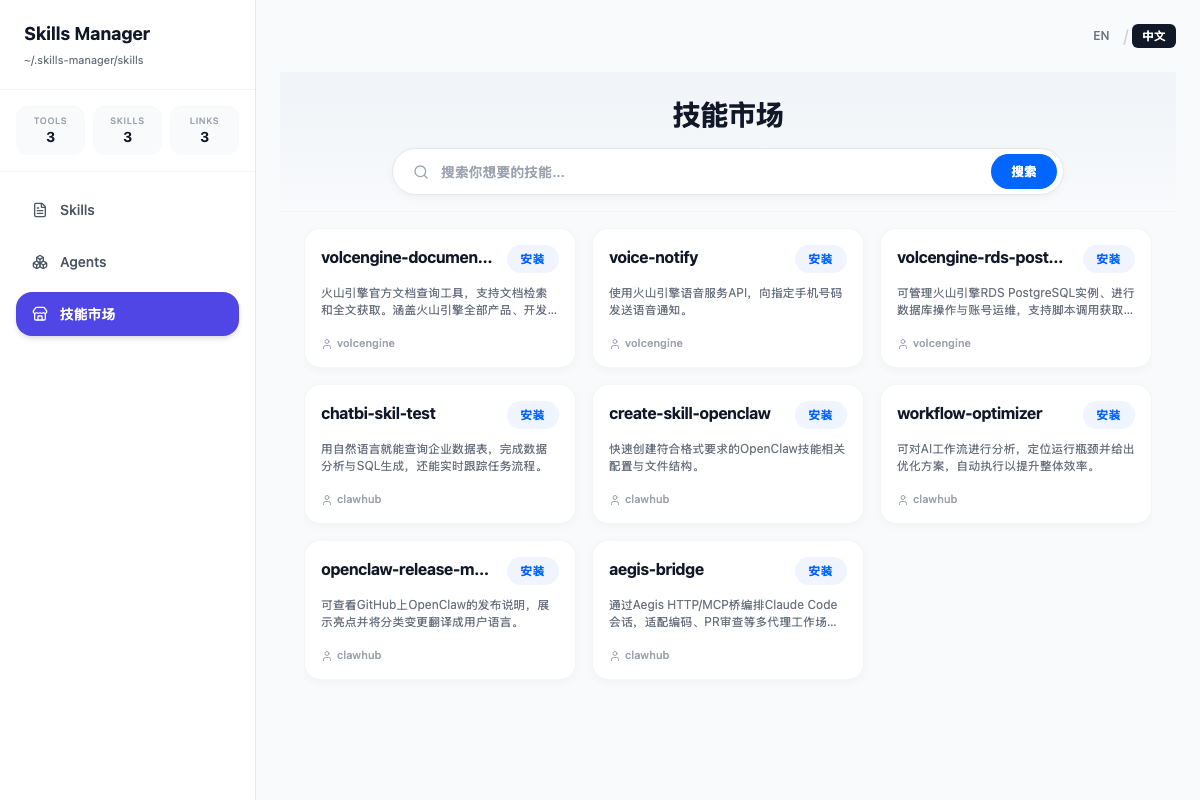
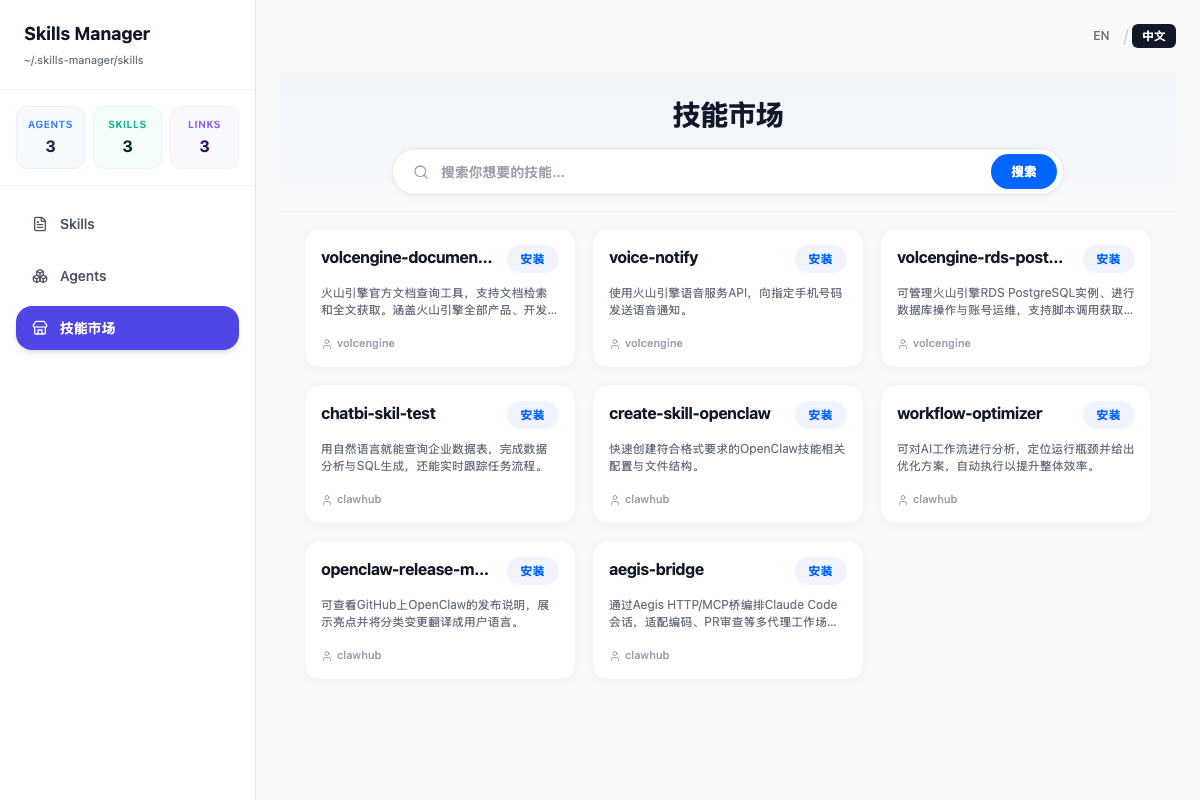
chore: update wording from tools to agents in hint texts

diff --git a/src/App.tsx b/src/App.tsx
@@ -33,7 +33,7 @@ const i18n = {
     viewer: "访客",
     newSkill: "新增 Skill",
     searchSkills: "搜索 skill 名称",
-    searchTools: "搜索 tool 名称或标签",
+    searchTools: "搜索 agent 名称",
     save: "保存",
     saving: "保存中...",
     cancel: "取消",
@@ -43,39 +43,39 @@ const i18n = {
     skillNamePlaceholder: "例如：review_pr.md",
     editSkill: "编辑 Skill",
     noSkillsFound: "当前没有匹配的 skill。",
-    toolsHint: "点击左侧 Tools 菜单，在右侧查看和管理所有 tool 卡片。",
-    addTool: "新增 Tool",
+    toolsHint: "点击左侧 Agents 菜单，在右侧查看和管理所有 agent 卡片。",
+    addTool: "新增 Agent",
     allTags: "全部标签",
     disabled: "已停用",
     configureSkill: "配置 Skill",
     skillsPath: "Skills Path",
     skillsPathRequired: "Skills Path 不能为空",
-    skillsPathHint: "必填，默认：~/.<tool-id>/skills",
+    skillsPathHint: "必填，默认：~/.<agent-id>/skills",
     notConfigured: "未配置",
-    noToolsFound: "没有匹配的 tool。",
-    toolId: "Tool ID",
-    toolName: "Tool 名称",
-    toolNameRequired: "Tool 名称不能为空",
+    noToolsFound: "没有匹配的 agent。",
+    toolId: "Agent ID",
+    toolName: "Agent 名称",
+    toolNameRequired: "Agent 名称不能为空",
     description: "简要描述",
     icon: "图标标识",
     tags: "标签",
     tagsPlaceholder: "用逗号分隔，例如：cli, agent",
-    enabled: "启用此 Tool",
-    invalidToolId: "Tool ID 只能包含字母、数字、下划线和连字符",
-    duplicateToolId: "Tool ID 已存在",
-    createTool: "新增 Tool",
-    editTool: "编辑 Tool",
-    toolSaved: "Tool 已保存并同步",
-    toolDeleted: "Tool 已删除",
+    enabled: "启用此 Agent",
+    invalidToolId: "Agent ID 只能包含字母、数字、下划线和连字符",
+    duplicateToolId: "Agent ID 已存在",
+    createTool: "新增 Agent",
+    editTool: "编辑 Agent",
+    toolSaved: "Agent 已保存并同步",
+    toolDeleted: "Agent 已删除",
     confirmDeleteTool: "确定删除 {tool} 吗？",
     skillAssociations: "个 Skill 关联",
     skillConfigTitle: "配置 {tool} 的 Skill",
-    skillConfigHint: "管理当前 tool 的 skill 关联、参数与优先级。",
+    skillConfigHint: "管理当前 agent 的 skill 关联、参数与优先级。",
     selectSkill: "选择一个 Skill",
     addSkill: "添加 Skill",
     priority: "优先级",
     parameters: "参数",
-    priorityHint: "优先级越高，表示在该 tool 下越优先使用。",
+    priorityHint: "优先级越高，表示在该 agent 下越优先使用。",
     parameterFormatError: "参数必须是合法 JSON 对象",
     testSkill: "测试 Skill",
     testHint: "点击测试按钮验证该 skill 是否可用。",
@@ -90,7 +90,7 @@ const i18n = {
     noLinkedSkillsMatched: "没有匹配的已关联 skill。",
     skillDescriptionFallback: "暂无描述，打开文件后可查看完整内容。",
     clickToEditPath: "点击可编辑路径",
-    pathSavedThroughEdit: "通过编辑 Tool 可修改路径",
+    pathSavedThroughEdit: "通过编辑 Agent 可修改路径",
     directory: "目录",
     file: "文件",
     marketplacePlaceholder: "从社区发现和安装新的 skills",
@@ -127,7 +127,7 @@ const i18n = {
     viewer: "Viewer",
     newSkill: "New Skill",
     searchSkills: "Search skills",
-    searchTools: "Search tools by name or tag",
+    searchTools: "Search agents by name",
     save: "Save",
     saving: "Saving...",
     cancel: "Cancel",
@@ -137,45 +137,45 @@ const i18n = {
     skillNamePlaceholder: "For example: review_pr.md",
     editSkill: "Edit Skill",
     noSkillsFound: "No matching skills found.",
-    toolsHint: "Click the Tools item in the left navigation to manage all tool cards here.",
-    addTool: "Add Tool",
+    toolsHint: "Click the Agents item in the left navigation to manage all agent cards here.",
+    addTool: "Add Agent",
     allTags: "All Tags",
     disabled: "Disabled",
     configureSkill: "Configure Skill",
     skillsPath: "Skills Path",
     skillsPathRequired: "Skills Path is required",
-    skillsPathHint: "Required. Default: ~/.<tool-id>/skills",
+    skillsPathHint: "Required. Default: ~/.<agent-id>/skills",
     notConfigured: "Not configured",
-    noToolsFound: "No matching tools found.",
-    toolId: "Tool ID",
-    toolName: "Tool Name",
-    toolNameRequired: "Tool name is required",
+    noToolsFound: "No matching agents found.",
+    toolId: "Agent ID",
+    toolName: "Agent Name",
+    toolNameRequired: "Agent name is required",
     description: "Description",
     icon: "Icon Key",
     tags: "Tags",
     tagsPlaceholder: "Comma separated, for example: cli, agent",
-    enabled: "Enable this tool",
-    invalidToolId: "Tool ID may only contain letters, numbers, underscores and hyphens",
-    duplicateToolId: "Tool ID already exists",
-    createTool: "Create Tool",
-    editTool: "Edit Tool",
-    toolSaved: "Tool saved and synced",
-    toolDeleted: "Tool deleted",
+    enabled: "Enable this agent",
+    invalidToolId: "Agent ID may only contain letters, numbers, underscores and hyphens",
+    duplicateToolId: "Agent ID already exists",
+    createTool: "Create Agent",
+    editTool: "Edit Agent",
+    toolSaved: "Agent saved and synced",
+    toolDeleted: "Agent deleted",
     confirmDeleteTool: "Delete {tool}?",
     skillAssociations: "skill associations",
     skillConfigTitle: "Configure skills for {tool}",
-    skillConfigHint: "Manage linked skills, parameters, and priorities for this tool.",
+    skillConfigHint: "Manage linked skills, parameters, and priorities for this agent.",
     selectSkill: "Select a skill",
     addSkill: "Add Skill",
     priority: "Priority",
     parameters: "Parameters",
-    priorityHint: "Higher values make a skill more preferred for this tool.",
+    priorityHint: "Higher values make a skill more preferred for this agent.",
     parameterFormatError: "Parameters must be a valid JSON object",
     testSkill: "Test Skill",
     testHint: "Run a quick validation for this skill.",
     saveSkillConfig: "Save Configuration",
     skillConfigSaved: "Skill configuration saved",
-    noSkillConfig: "No skills linked to this tool yet.",
+    noSkillConfig: "No skills linked to this agent yet.",
     linkedSkills: "Linked Skills",
     availableSkills: "Available Skills",
     searchLinkedSkills: "Search linked skills",
@@ -184,7 +184,7 @@ const i18n = {
     noLinkedSkillsMatched: "No linked skills match the search.",
     skillDescriptionFallback: "No description available yet. Open the file to inspect full content.",
     clickToEditPath: "Click to edit path",
-    pathSavedThroughEdit: "Edit the tool to update paths",
+    pathSavedThroughEdit: "Edit the agent to update paths",
     directory: "Directory",
     file: "File",
     skillCreated: "Skill created",

diff --git a/src/components/Sidebar.tsx b/src/components/Sidebar.tsx
@@ -31,17 +31,17 @@ export function Sidebar({ activeView, labels, onSelect, overview, storagePath }:
       </div>
       
       <div className="border-b border-gray-100 px-4 py-4 grid grid-cols-3 gap-2 text-center hidden md:grid">
-        <div className="flex flex-col items-center justify-center rounded-xl bg-gray-50 py-2 shadow-[inset_0_1px_2px_rgba(0,0,0,0.02)]">
-          <span className="text-[9px] font-medium uppercase tracking-wider text-gray-400">Tools</span>
-          <span className="text-sm font-bold text-gray-900">{overview.toolCount}</span>
+        <div className="flex flex-col items-center justify-center rounded-xl bg-blue-50/50 border border-blue-100/50 py-2.5 transition-colors hover:bg-blue-50">
+          <span className="text-[10px] font-semibold uppercase tracking-wider text-blue-500">Agents</span>
+          <span className="text-base font-bold text-blue-950 mt-0.5">{overview.toolCount}</span>
         </div>
-        <div className="flex flex-col items-center justify-center rounded-xl bg-gray-50 py-2 shadow-[inset_0_1px_2px_rgba(0,0,0,0.02)]">
-          <span className="text-[9px] font-medium uppercase tracking-wider text-gray-400">Skills</span>
-          <span className="text-sm font-bold text-gray-900">{overview.skillCount}</span>
+        <div className="flex flex-col items-center justify-center rounded-xl bg-emerald-50/50 border border-emerald-100/50 py-2.5 transition-colors hover:bg-emerald-50">
+          <span className="text-[10px] font-semibold uppercase tracking-wider text-emerald-500">Skills</span>
+          <span className="text-base font-bold text-emerald-950 mt-0.5">{overview.skillCount}</span>
         </div>
-        <div className="flex flex-col items-center justify-center rounded-xl bg-gray-50 py-2 shadow-[inset_0_1px_2px_rgba(0,0,0,0.02)]">
-          <span className="text-[9px] font-medium uppercase tracking-wider text-gray-400">Links</span>
-          <span className="text-sm font-bold text-gray-900">{overview.linkCount}</span>
+        <div className="flex flex-col items-center justify-center rounded-xl bg-violet-50/50 border border-violet-100/50 py-2.5 transition-colors hover:bg-violet-50">
+          <span className="text-[10px] font-semibold uppercase tracking-wider text-violet-500">Links</span>
+          <span className="text-base font-bold text-violet-950 mt-0.5">{overview.linkCount}</span>
         </div>
       </div>
 
